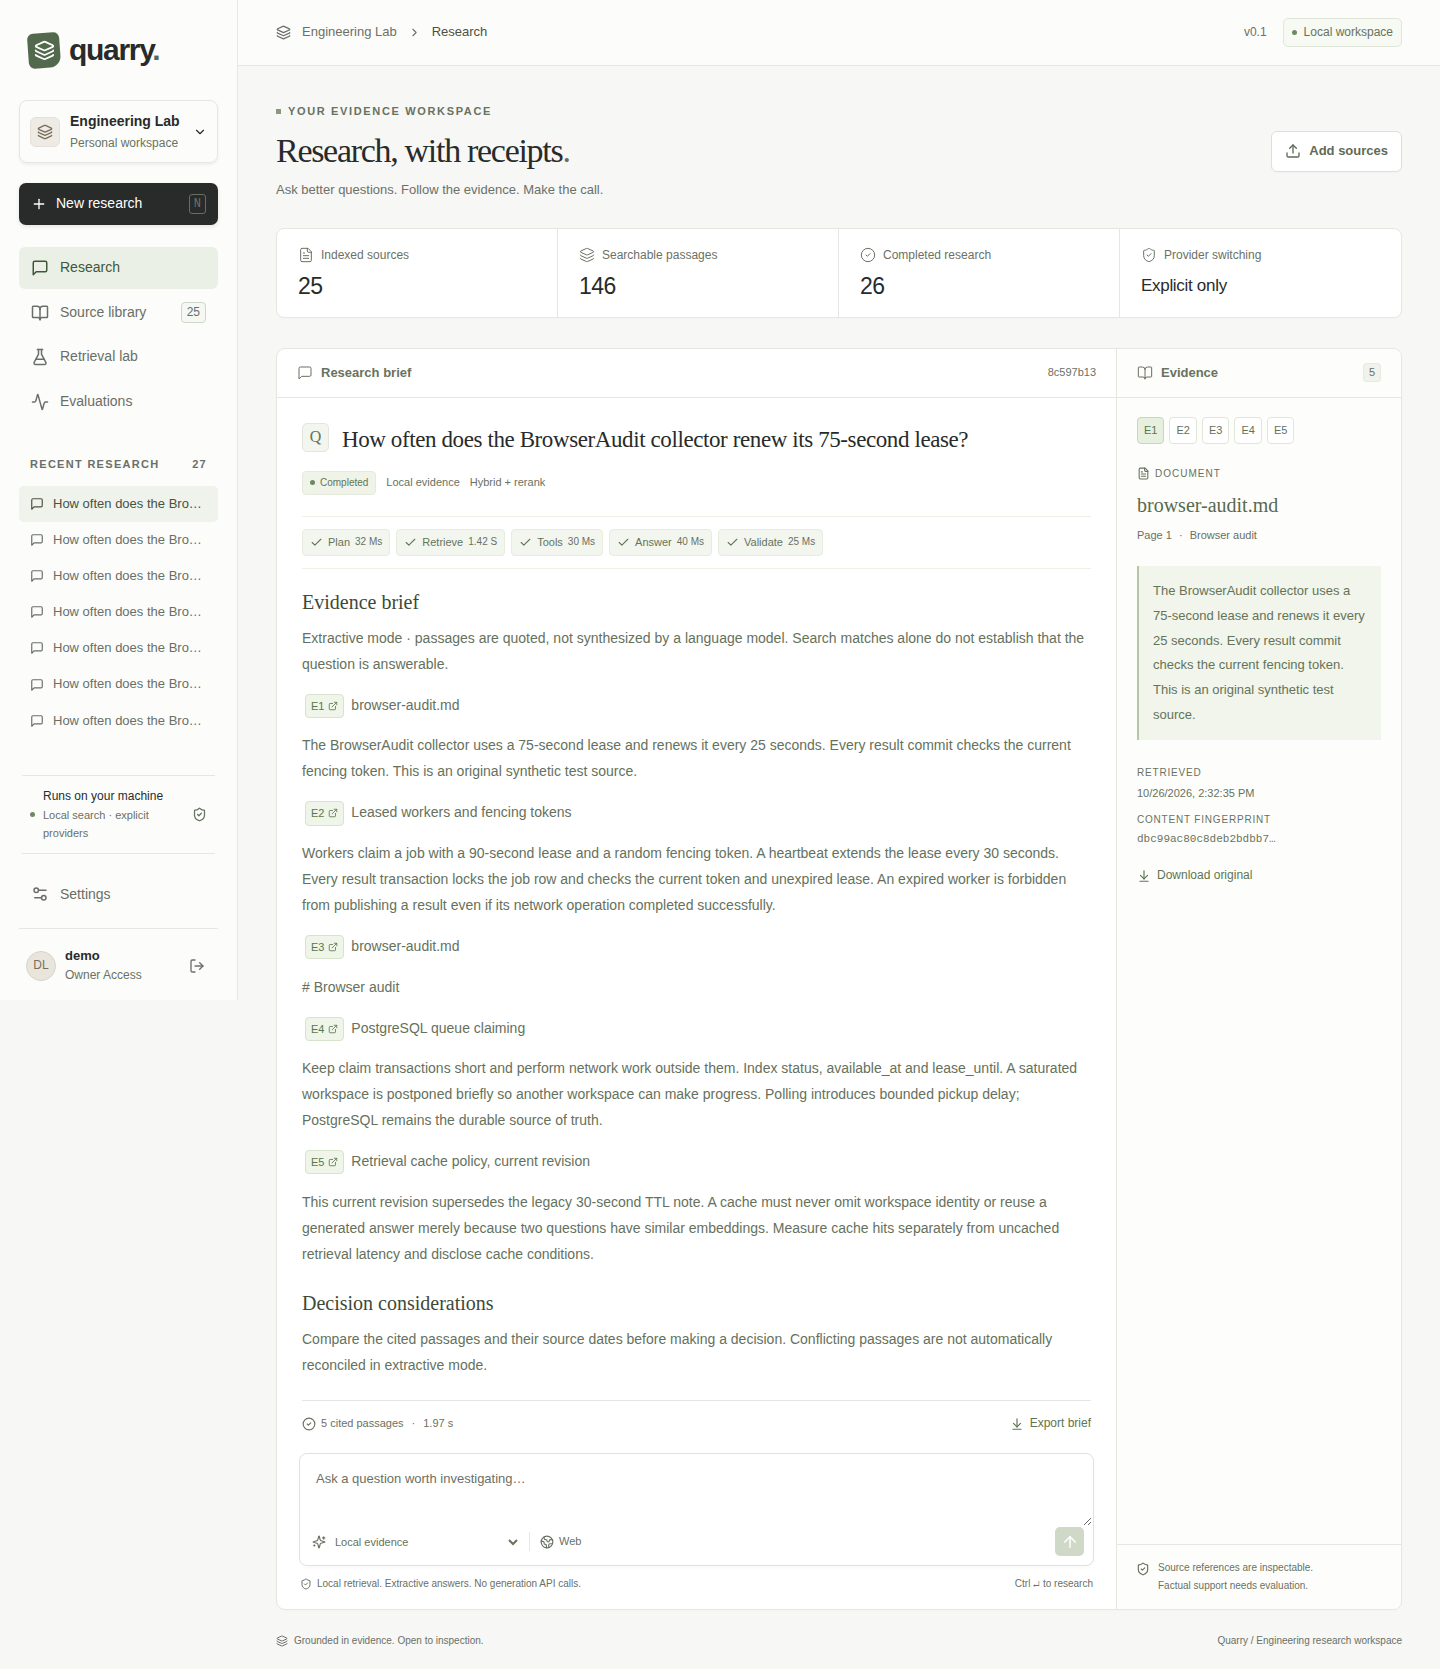
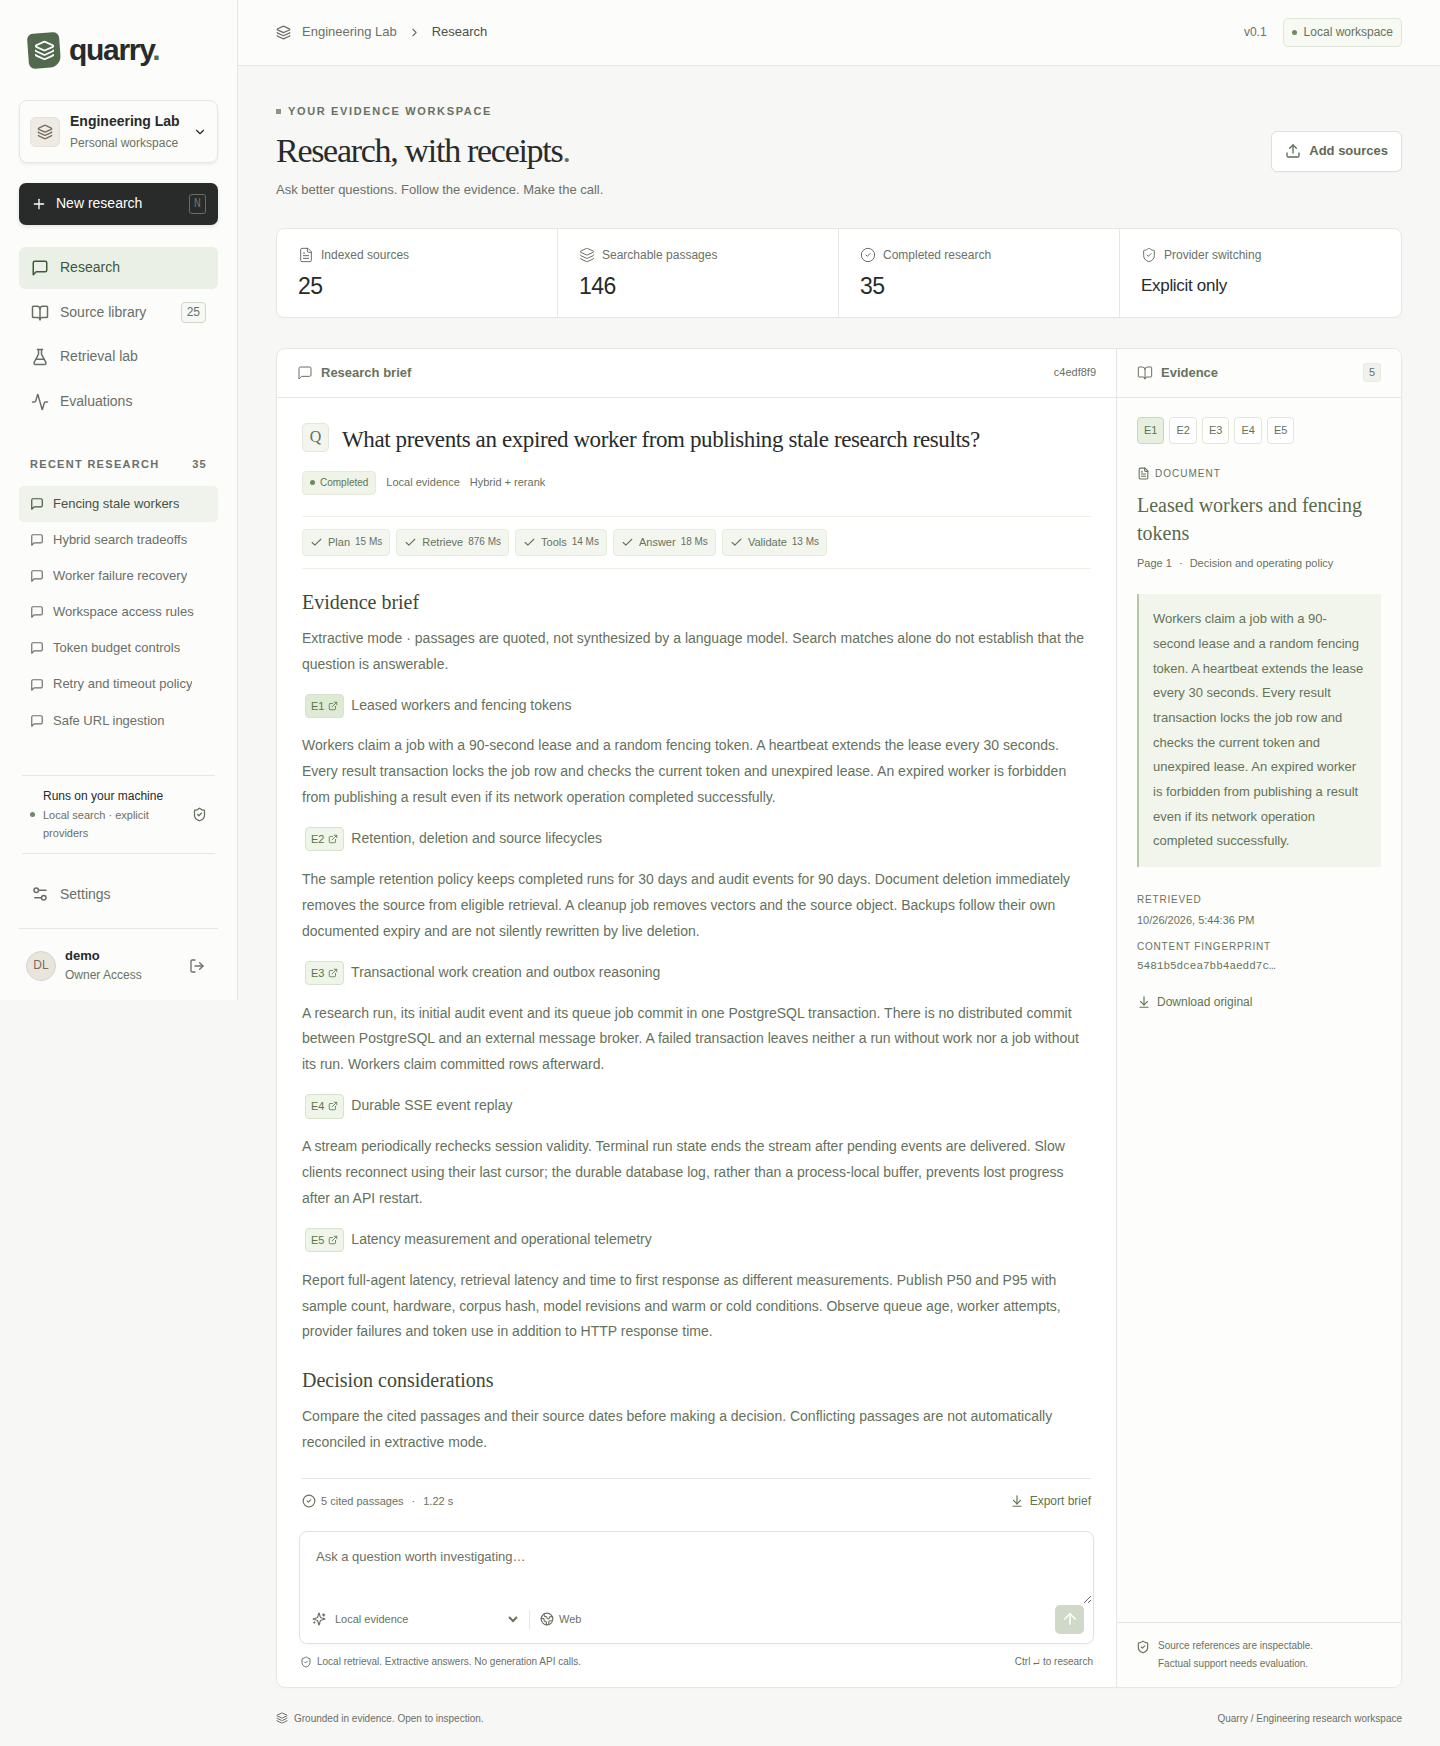
Refresh research screenshots with distinct real demo topics

diff --git a/README.md b/README.md
@@ -6,7 +6,7 @@ An engineering research platform with inspectable citations, reproducible retrie
 
 **Next.js · TypeScript · FastAPI · LangGraph · PostgreSQL · Qdrant · ONNX · Docker**
 
-![Research workspace with an inspectable cited answer](docs/assets/02-cited-research.png)
+![Research workspace with an inspectable cited answer](docs/assets/quarry-research.png)
 
 Upload technical documents, ask a question, follow the execution timeline, and inspect the passages supporting an engineering decision brief. Compare retrieval strategies against the same corpus and export the result as Markdown.
 
